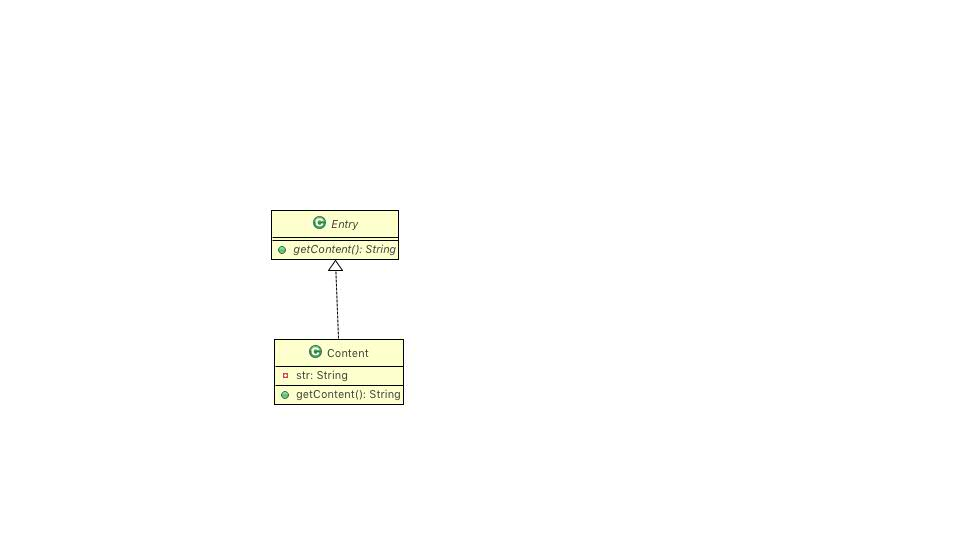
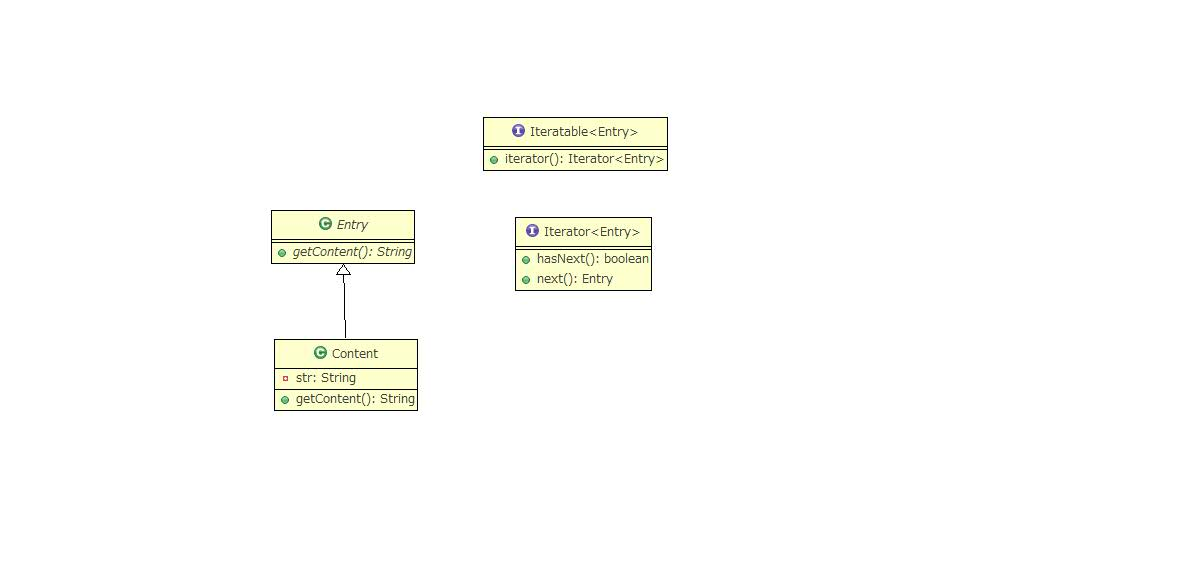
change something

Changed region(s): [[0.2181, 0.3562, 0.5607, 0.5343], [0.2181, 0.5937, 0.4361, 0.7718], [0.3738, 0.2078, 0.5607, 0.3265]]

diff --git a/DesignPattern/src/answer/Main1.java b/DesignPattern/src/answer/Main1.java
@@ -1,23 +1,27 @@
 package answer;
 
+import java.util.ArrayList;
+import java.util.List;
+
 public class Main1 {
 
 	public static void main(String[] args) {
+		List<Entry> list = new ArrayList<Entry>();
 		//Entry list = new Cons();
-		Cons list = new Cons();
-		for(int i = 0; i < 10; i++){
+		//Cons list = new Cons();
+		for(int i = 0; i < 3; i++){
 			list.add(new Content(String.valueOf(i)));
 		}
 		for(Entry e: list){
 			System.out.println(e.getContent());
 		}
-		
+
 		Cons c0 = new Cons(new Cons(new Content("1"),new Content("2")),new Content("3"));
 		//[[1,2],3]
 		for(Entry e : c0){
 			System.out.println(e.getContent());
 		}
-		
+
 		Cons c1 = new Cons(new Content("2"),null);
 		c1.add(new Content("3"));
 		//System.out.println(c1.getContent());
@@ -30,6 +34,6 @@ public class Main1 {
 		for(Entry e : c2){
 			System.out.println(e.getContent());
 		}
-		
+
 	}
 }
